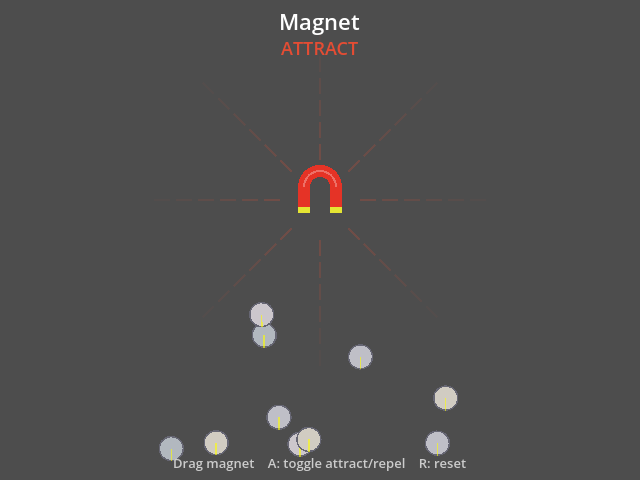
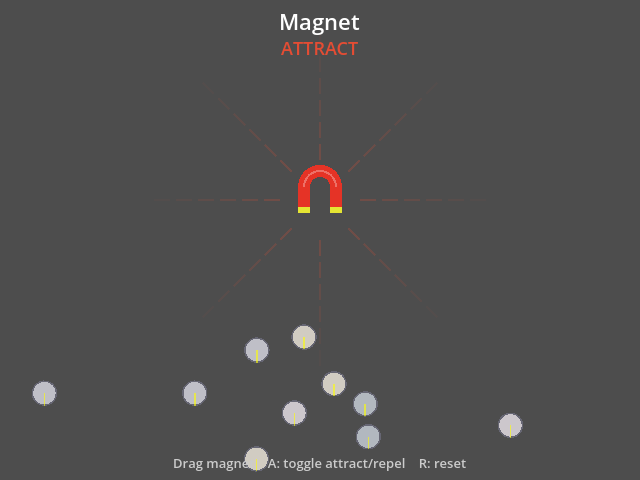
Fix two suites that passed most of the time, and add a check for the rest
A full run failed on cellular-automata where the single-demo run passed, and a
later one failed on rhythm-minigame the same way. Both were mine, and both had
the same cause: Godot seeds the global RNG at startup, so a demo calling randf()
behaves differently on every run, and an assertion on the outcome is asking
about luck rather than behaviour.

cellular-automata poured a seven-cell column of water and asked for more than
one cell of puddle either side. Which side a grain takes first is a coin flip,
so the settled puddle straddled the pour point unevenly about one run in ten. It
pours a sixteen-cell column now, where the margin is six cells against a
threshold of three.

rhythm-minigame spawns a note on three beats in four and removes notes that have
fallen past the miss line, so by the end of the window only the last three
beats' worth could still exist — the assertion that any note is on screen was
asking whether three draws in a row had all come up tails, about one in sixty.
That one is seeded rather than widened: the spawn chance is not the behaviour
under test, and a test that depends on it is answering the wrong question.

A suite that fails one run in sixty is worse than one that fails always, because
the next person reruns it, sees green and moves on. tools/flakecheck.sh runs
each suite several times and reports any that disagree with themselves —
defaulting to the 37 demos whose scripts use the global RNG, since those are the
[…]

diff --git a/docs/TEST_INTEGRITY.md b/docs/TEST_INTEGRITY.md
@@ -402,6 +402,35 @@ rest:
 - `cellular-automata`'s own water test asserted the wrong row and passed about
   half the time, depending on which way a coin-flip sent the drop.
 
+## A test that passes most of the time
+
+Godot seeds the global RNG at startup, so a demo calling `randf()` behaves
+differently on every run. A suite that asserts on the outcome then passes most
+of the time and fails in CI for no reason anyone can reproduce — which is worse
+than failing always, because the next person reruns it, sees green, and moves on.
+
+Two turned up one full-suite run apart, both mine:
+
+- `cellular-automata` poured a seven-cell column of water and asked for more
+  than one cell of puddle on each side. Which side a grain takes first is a coin
+  flip, so the settled puddle straddled the pour point unevenly about one run in
+  ten.
+- `rhythm-minigame` spawns a note on three beats in four and removes notes that
+  have fallen past the miss line. By the end of the test window only the last
+  three beats' worth could still be on screen, so the assertion that any note
+  exists was asking whether three consecutive draws had all come up tails —
+  about one run in sixty.
+
+Two fixes, and the second is better. Widening the assertion until the margin is
+comfortable works, and is right when the demo's behaviour is genuinely
+statistical. Seeding is right when it is not: `seed(20240821)` at the top of the
+test makes the demo's own `randf()` draw the same sequence every run, so the
+test is asking about behaviour rather than about luck.
+
+`tools/flakecheck.sh` runs each suite several times and reports any that do not
+agree with themselves. It defaults to the demos whose scripts use the global RNG
+— 37 of the 165 — because those are the ones that can differ at all.
+
 ## An error the gate does not know about is an error that never happened
 
 `run-tests.sh` fails a suite on a list of abort-class messages, because a

diff --git a/README.md b/README.md
@@ -81,6 +81,7 @@ tools/check_screenshots.py # which demos open onto an empty screen
 tools/build_gallery.py    # write docs/GALLERY.md from those screenshots
 tools/export_web.sh       # export demos for the browser (needs export templates)
 tools/mutate.py           # how much of each demo the tests actually reach
+tools/flakecheck.sh       # suites that disagree with themselves between runs
 ```
 
 See [CONTRIBUTING.md](CONTRIBUTING.md) for the conventions these enforce, and
